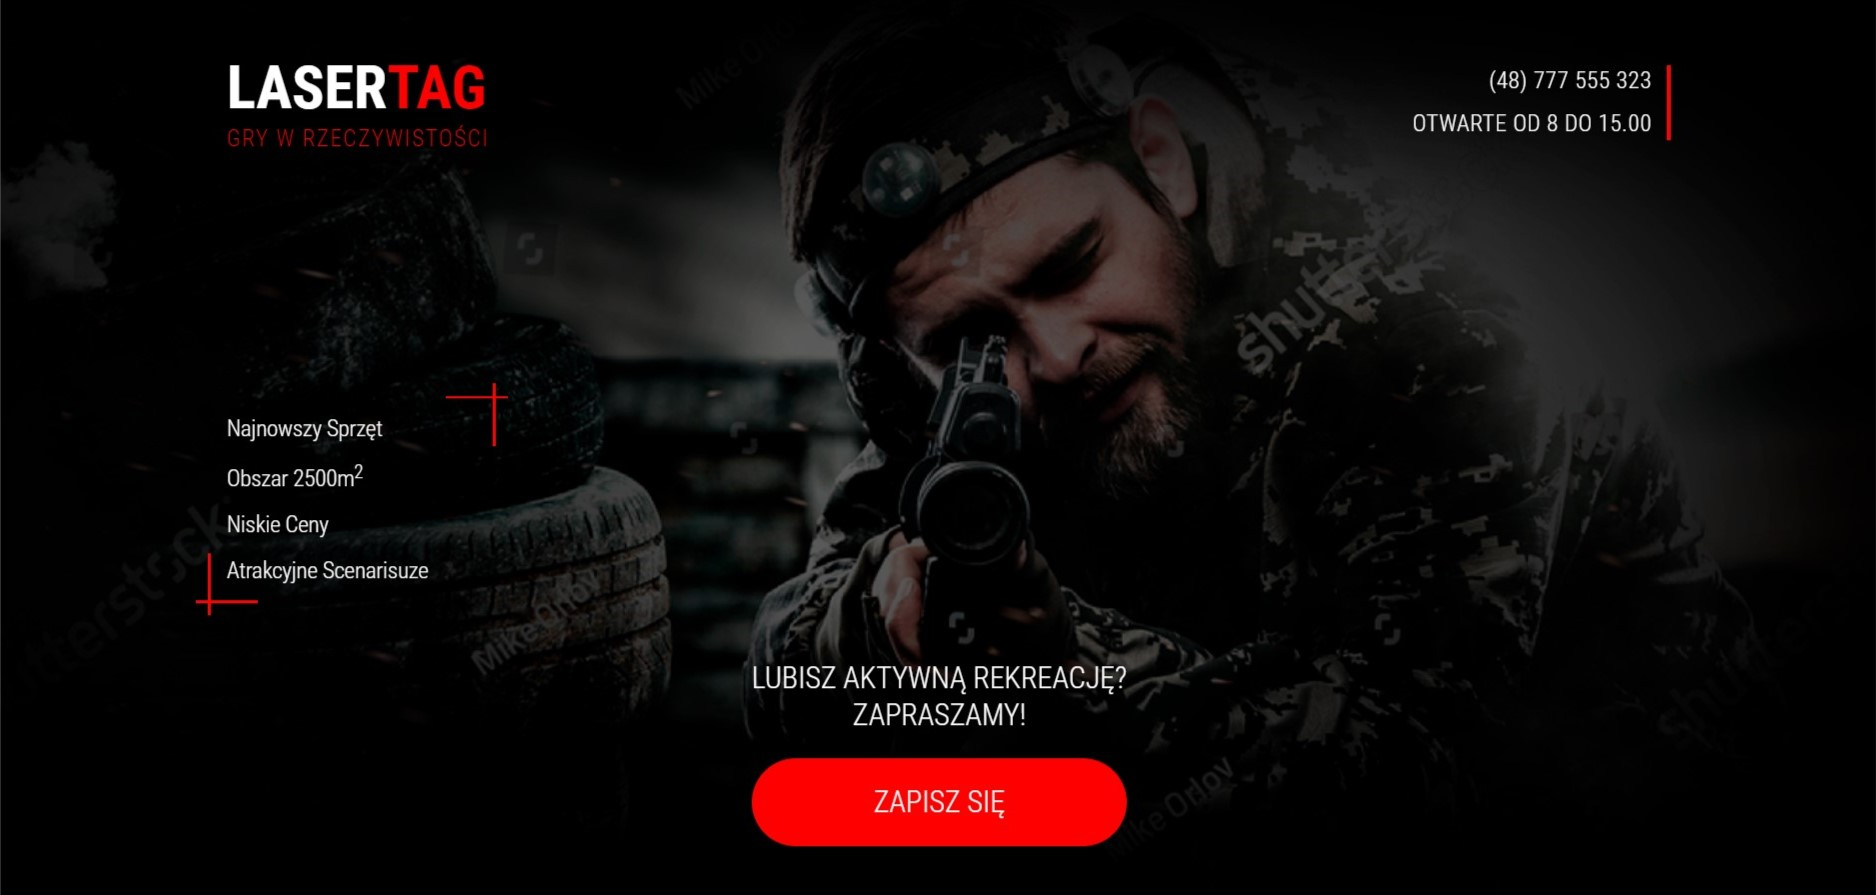
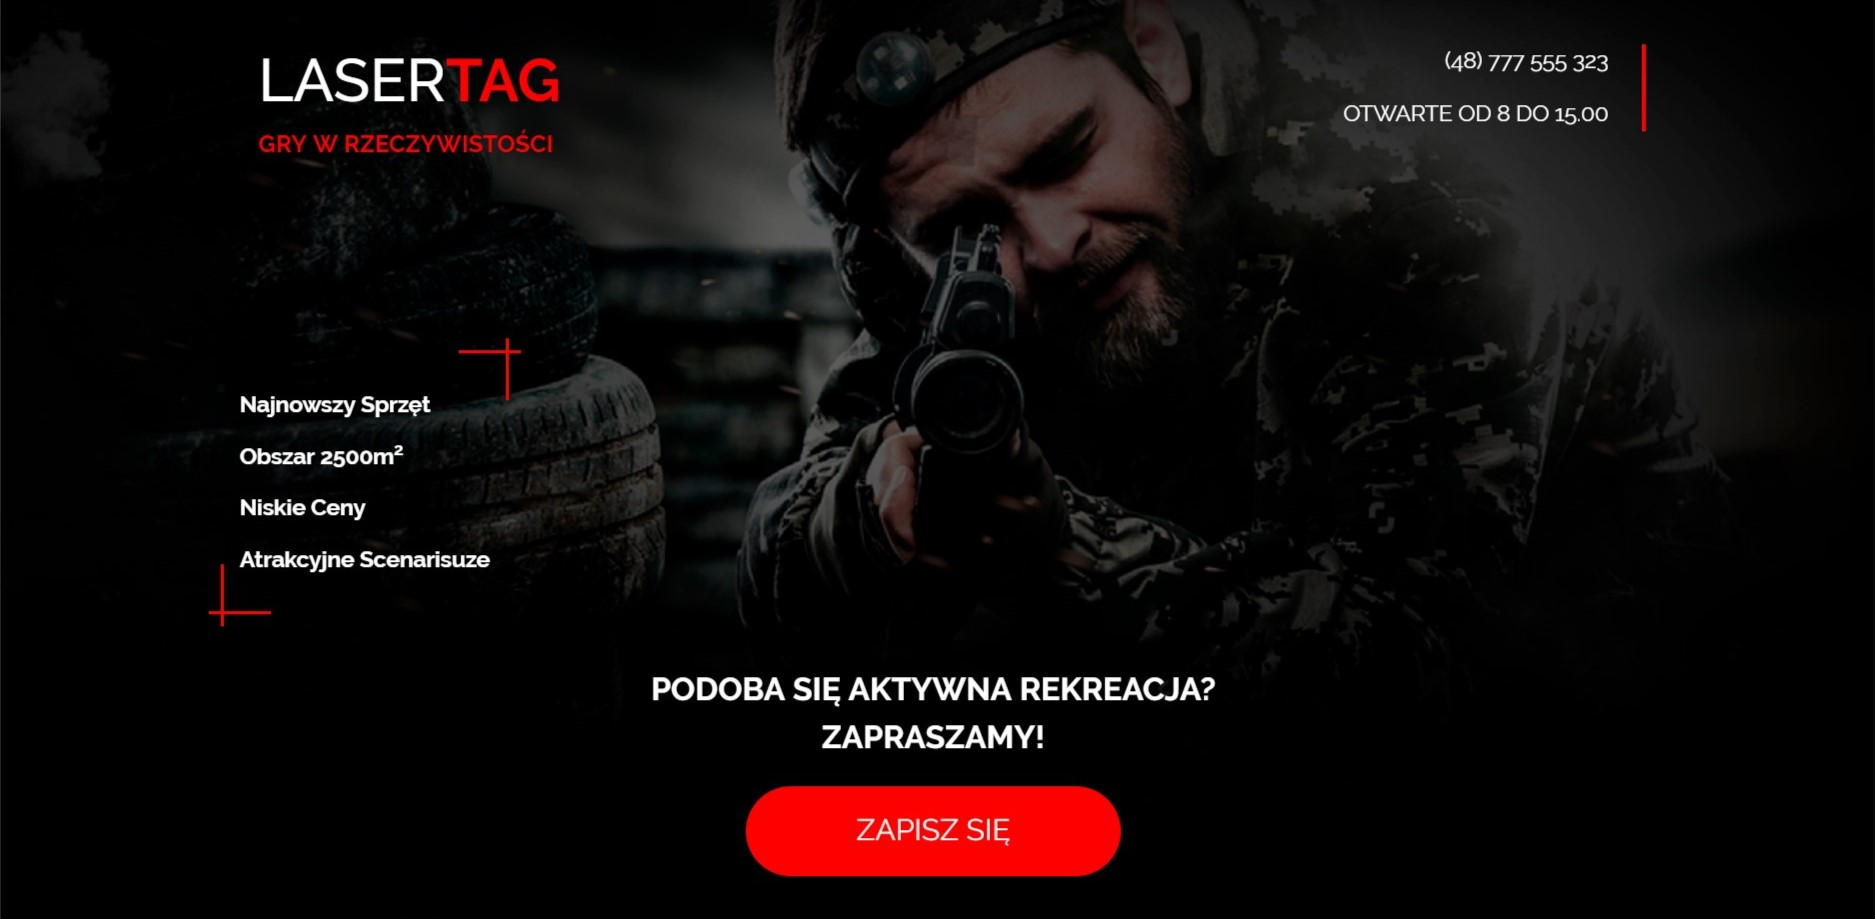
Updates

diff --git a/styles/reservation.css b/styles/reservation.css
@@ -4,11 +4,10 @@
 	left:50%;
 	transform: translate(-50%,-50%);
 	z-index: 999;
-	
 } 
 
 .reservationContainer{
-	font-family: 'Roboto', sans-serif;
+	font-family: 'Raleway', sans-serif;
 	font-size: 14px;
 	background-image: url(../img/31322_2_reversed.jpg);
 	background-size: cover;
@@ -47,7 +46,6 @@
 
 
 .calendar, .date-container{
-	
 	flex:1;
 	min-height:150px;
 	display: flex;
@@ -93,7 +91,6 @@
 	width: 95%;
 	height: 0.5px;
 	background-color: #fff;
-	top:30px;
 	left:0;
 }
 
@@ -121,9 +118,12 @@
 	width: 100%;
 	height: 40px;
 	padding: 10px;
-	text-align: center;
 	margin-bottom: 5px;
 	transition: all 0.4s ease-out;
+	display: flex;
+	justify-content: center;
+	align-items: center;
+	
 }
 
 .date__hour ul{
@@ -142,6 +142,10 @@
 	line-height: 40px;
 	margin-right: 5px;
 	transition: all 0.4s ease-out;
+	display: flex;
+	justify-content: center;
+	align-items: center;
+	
 }
 
 .date__hour ul li:last-child{

diff --git a/styles/media.css b/styles/media.css
@@ -205,6 +205,11 @@
 @media only screen and (max-width: 576px){
 	body{font-size: 0.9rem;}
 
+	
+	header{
+		padding: 50px 50px;
+	}
+
 	.header-call-to-action{
 		margin-top: 50px;
 		height: 100px;
@@ -229,4 +234,24 @@
   .header_phone, .header_hours{
 	  font-size: 0.8rem;
   }
+
+  .definition{
+		padding: 150px 50px;
+	}
+
+	.audience-container{
+		padding: 150px 50px;
+  }
+
+  .gallery{
+		padding: 150px 50px;
+	}
+
+	.contact{
+		padding: 150px 50px;
+	}
+
+	.questions{
+		padding: 150px 50px;
+	}
 }	

diff --git a/styles/style.css b/styles/style.css
@@ -761,7 +761,7 @@ div[class*="offer__item"] .cross-4{
 .contact-container{
     display: grid;
     grid-template-columns:1fr 2fr;
-    justify-items: center;
+    justify-content: center;
 }
 
 .form-info{
